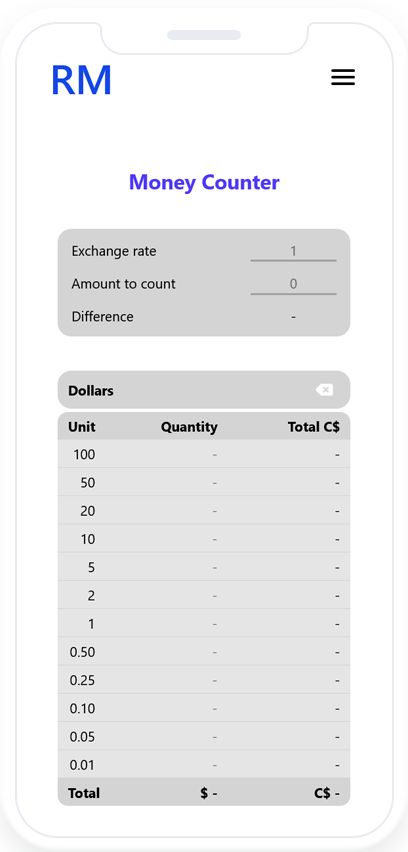
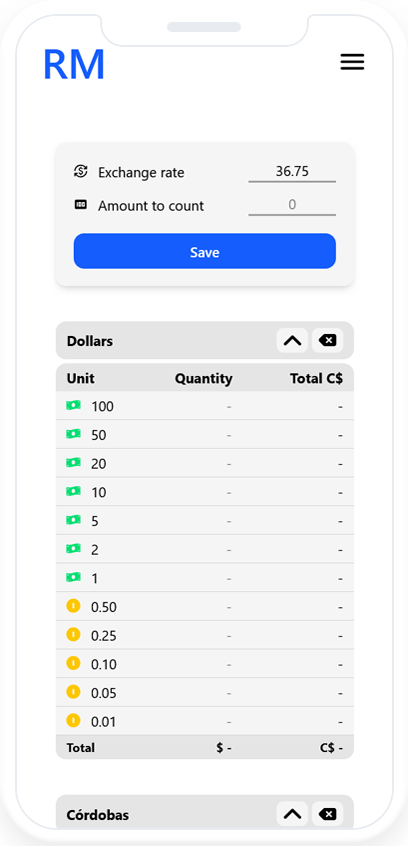
Move to TypeScript, update Money Counter metadata and picture

Changed region(s): [[0.1176, 0.1844, 0.8824, 0.9835], [0.0882, 0.0307, 0.2941, 0.1229], [0.7941, 0.0615, 0.9118, 0.1229]]

diff --git a/src/components/Header.tsx b/src/components/Header.tsx
@@ -1,7 +1,11 @@
 import { useState } from "react";
 import { headerLinks, contacts } from "../assets/data";
-import MenuSvg from '../icons/menu.svg?react';
-import CloseSvg from '../icons/close.svg?react';
+import MenuSvg from "../icons/menu.svg?react";
+import CloseSvg from "../icons/close.svg?react";
+
+type OpenMenu = boolean;
+type SetOpenMenu = React.Dispatch<React.SetStateAction<boolean>>;
+type Children = React.ReactNode;
 
 export function Header() {
   const [openMenu, setOpenMenu] = useState(false);
@@ -9,45 +13,70 @@ export function Header() {
   return (
     <header className="flex flex-col max-w-7xl p-7 mx-auto">
       <div className="flex w-full justify-between items-center">
-      <a href="/" className="flex items-center text-5xl text-blue-600 dark:text-blue-300 font-semibold">RM</a>
-        <HeaderNavDesktop />
+        <a
+          href="/"
+          className="flex items-center text-5xl text-blue-600 dark:text-blue-300 font-semibold"
+        >
+          RM
+        </a>
+        <HeaderNavDesktop setOpenMenu={setOpenMenu} />
         <HeaderToggle openMenu={openMenu} setOpenMenu={setOpenMenu} />
       </div>
-      {openMenu &&
+      {openMenu && (
         <HeaderNav setOpenMenu={setOpenMenu}>
           <HeaderToggle openMenu={openMenu} setOpenMenu={setOpenMenu} />
-        </HeaderNav>}
+        </HeaderNav>
+      )}
     </header>
   );
 }
 
-function HeaderToggle({ openMenu, setOpenMenu }) {
+function HeaderToggle({
+  openMenu,
+  setOpenMenu,
+}: {
+  openMenu: OpenMenu;
+  setOpenMenu: SetOpenMenu;
+}) {
   return (
     <button
       className="flex md:hidden cursor-pointer"
-      onClick={() => setOpenMenu(state => !state)}>
-      {openMenu ?
-        <CloseSvg className="size-9" /> :
+      onClick={() => setOpenMenu((state) => !state)}
+    >
+      {openMenu ? (
+        <CloseSvg className="size-9" />
+      ) : (
         <MenuSvg className="size-9" />
-      }
+      )}
     </button>
   );
 }
 
-function HeaderNavDesktop() {
+function HeaderNavDesktop({ setOpenMenu }: { setOpenMenu: SetOpenMenu }) {
   return (
     <nav className="hidden md:flex items-center gap-10">
-      <HeaderItems />
+      <HeaderItems setOpenMenu={setOpenMenu} />
     </nav>
   );
 }
 
-function HeaderNav({ children, setOpenMenu }) {
+function HeaderNav({
+  children,
+  setOpenMenu,
+}: {
+  children: Children;
+  setOpenMenu: SetOpenMenu;
+}) {
   return (
     <>
       <nav className="flex md:hidden fixed top-0 left-0 flex-col h-full w-full p-7 items-center gap-10 bg-white/90 dark:bg-neutral-800/90 backdrop-blur-2xl z-10">
         <div className="flex w-full justify-between items-center">
-          <a href="/" className="flex items-center text-5xl text-blue-600 dark:text-blue-300 font-semibold">RM</a>
+          <a
+            href="/"
+            className="flex items-center text-5xl text-blue-600 dark:text-blue-300 font-semibold"
+          >
+            RM
+          </a>
           {children}
         </div>
         <HeaderItems setOpenMenu={setOpenMenu} />
@@ -56,22 +85,24 @@ function HeaderNav({ children, setOpenMenu }) {
   );
 }
 
-function HeaderItems({ setOpenMenu }) {
+function HeaderItems({ setOpenMenu }: { setOpenMenu: SetOpenMenu }) {
   return (
     <>
       <div className="flex flex-col md:flex-row gap-5">
-        {headerLinks.map((link, index) =>
+        {headerLinks.map(({ link, name }) => (
           <a
-            href={link.link}
+            href={link}
             className="font-semibold text-center transition text-xl duration-150 text-neutral-600 dark:text-neutral-300 hover:text-indigo-600 dark:hover:text-indigo-300"
             onClick={() => setOpenMenu(false)}
-            key={index}
-          >{link.name}</a>
-        )}
+            key={name}
+          >
+            {name}
+          </a>
+        ))}
       </div>
       <div className="flex gap-5">
-        {contacts.map(({ link, Icon }, index) => (
-          <a href={link} target="_blank" rel="noopener noreferrer" key={index}>
+        {contacts.map(({ name, link, Icon }) => (
+          <a key={name} href={link} target="_blank" rel="noopener noreferrer">
             <Icon className="size-9 opacity-80 hover:scale-110 cursor-pointer transition duration-150" />
           </a>
         ))}

diff --git a/src/env.d.ts b/src/env.d.ts
@@ -1,0 +1,5 @@
+declare module "*.svg?react" {
+  import * as React from "react";
+  const ReactComponent: React.FC<React.SVGProps<SVGSVGElement>>;
+  export default ReactComponent;
+}

diff --git a/src/types/header.ts b/src/types/header.ts
@@ -1,0 +1,2 @@
+export type StateBool = boolean;
+export type StateSet = React.Dispatch<React.SetStateAction<boolean>>;
